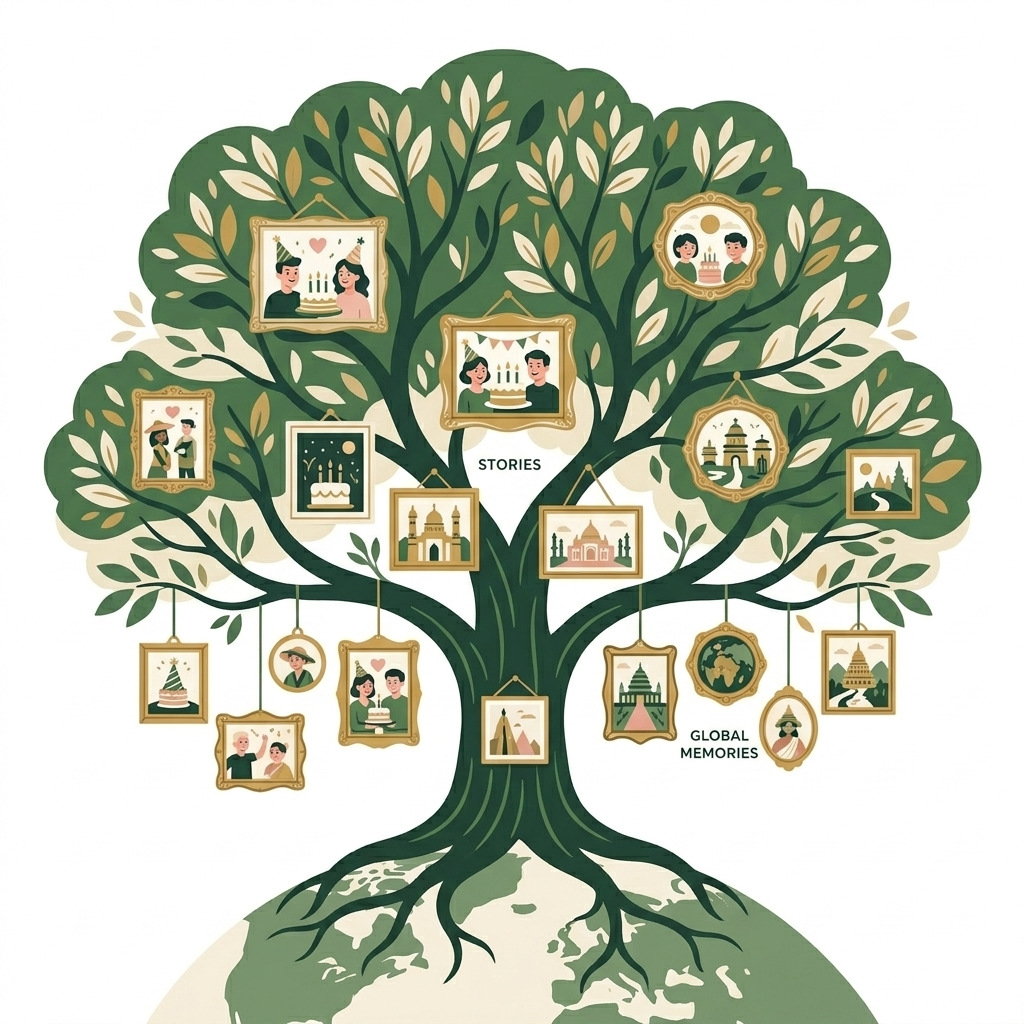
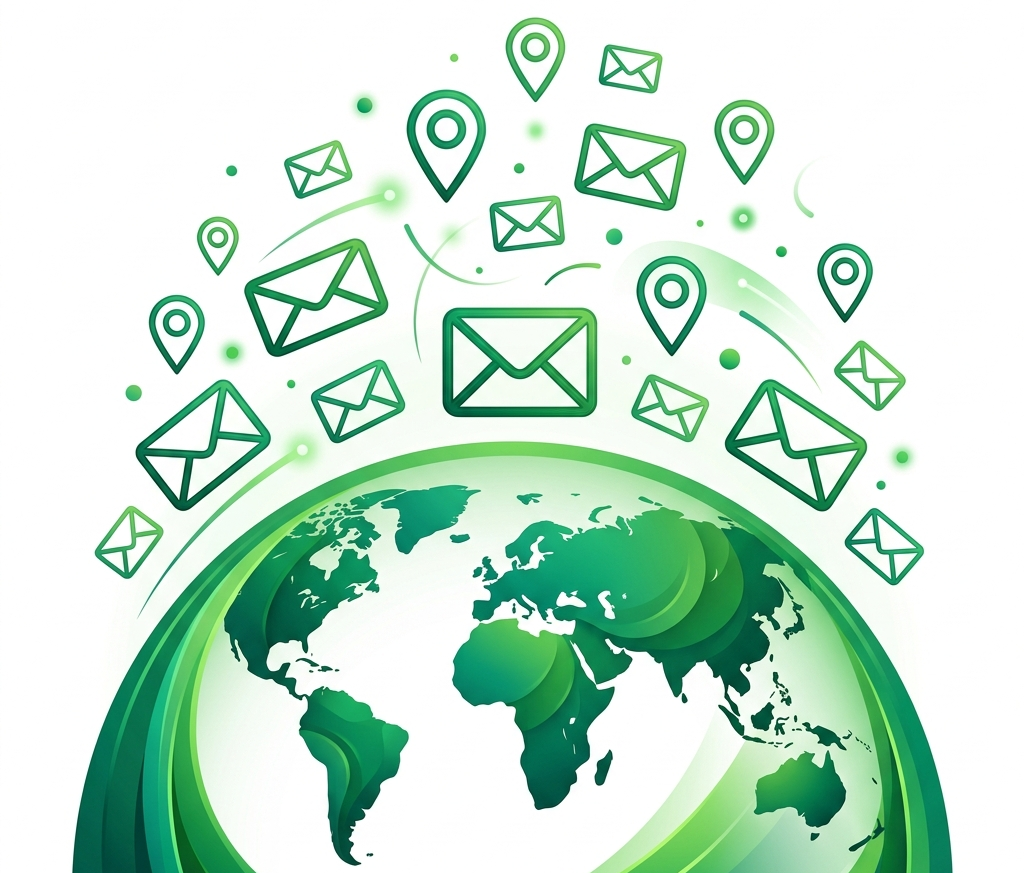
Design update: responsive memories globe image & cohesive stats character illustration

diff --git a/client/src/features/landing/components/Memories.tsx b/client/src/features/landing/components/Memories.tsx
@@ -27,12 +27,12 @@ export const Memories: React.FC = () => {
           whileInView={{ opacity: 1, y: 0 }}
           viewport={{ once: true }}
           transition={{ duration: 1, delay: 0.2 }}
-          className="w-full max-w-[1400px] mt-0 -translate-y-8"
+          className="w-[100vw] max-w-[100vw] shrink-0 mt-0 -translate-y-8 flex justify-center"
         >
           <img 
             src="/memories/memories_image.png" 
             alt="Global stories" 
-            className="w-full h-auto object-contain mix-blend-multiply rounded-3xl" 
+            className="w-full h-auto md:h-[100vh] object-contain mix-blend-multiply" 
           />
         </motion.div>
 

diff --git a/client/src/features/landing/components/NumbersGrid.tsx b/client/src/features/landing/components/NumbersGrid.tsx
@@ -17,7 +17,7 @@ export const NumbersGrid: React.FC = () => {
           whileInView={{ opacity: 1, x: 0 }}
           viewport={{ once: true }}
           transition={{ duration: 1 }}
-          src="https://assets.zyrosite.com/AE0r4EWz6LuN9z6g/forest.-times-1-2clKT98XA9kyXQm1.svg" 
+          src="/img/stats_character.png" 
           alt="Forest Times reader" 
           className="h-[550px] w-auto object-contain"
         />
